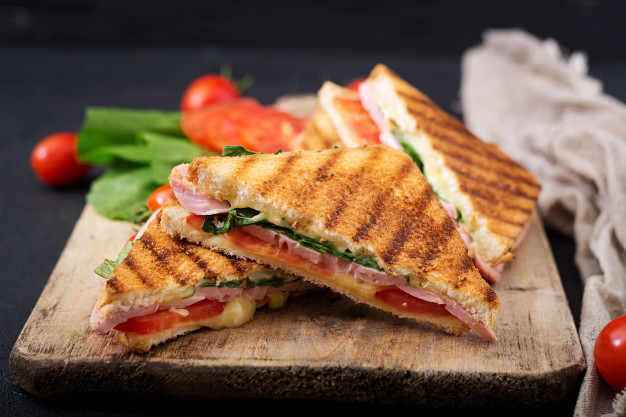
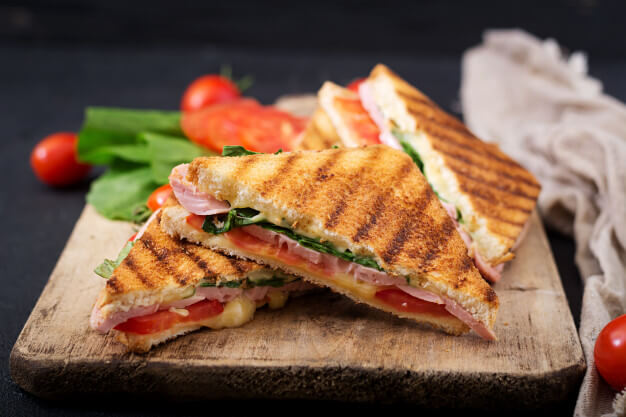
optimize image

diff --git a/index.html b/index.html
@@ -254,6 +254,9 @@
     <footer class="footer">
         <p class="footer__text">Created By <span class="footer__span">Hubert Mężyk</span>| All Rights Reserved!</p>
     </footer>
+    <script>
+        document.ready
+    </script>
 </body>
 
 </html>
